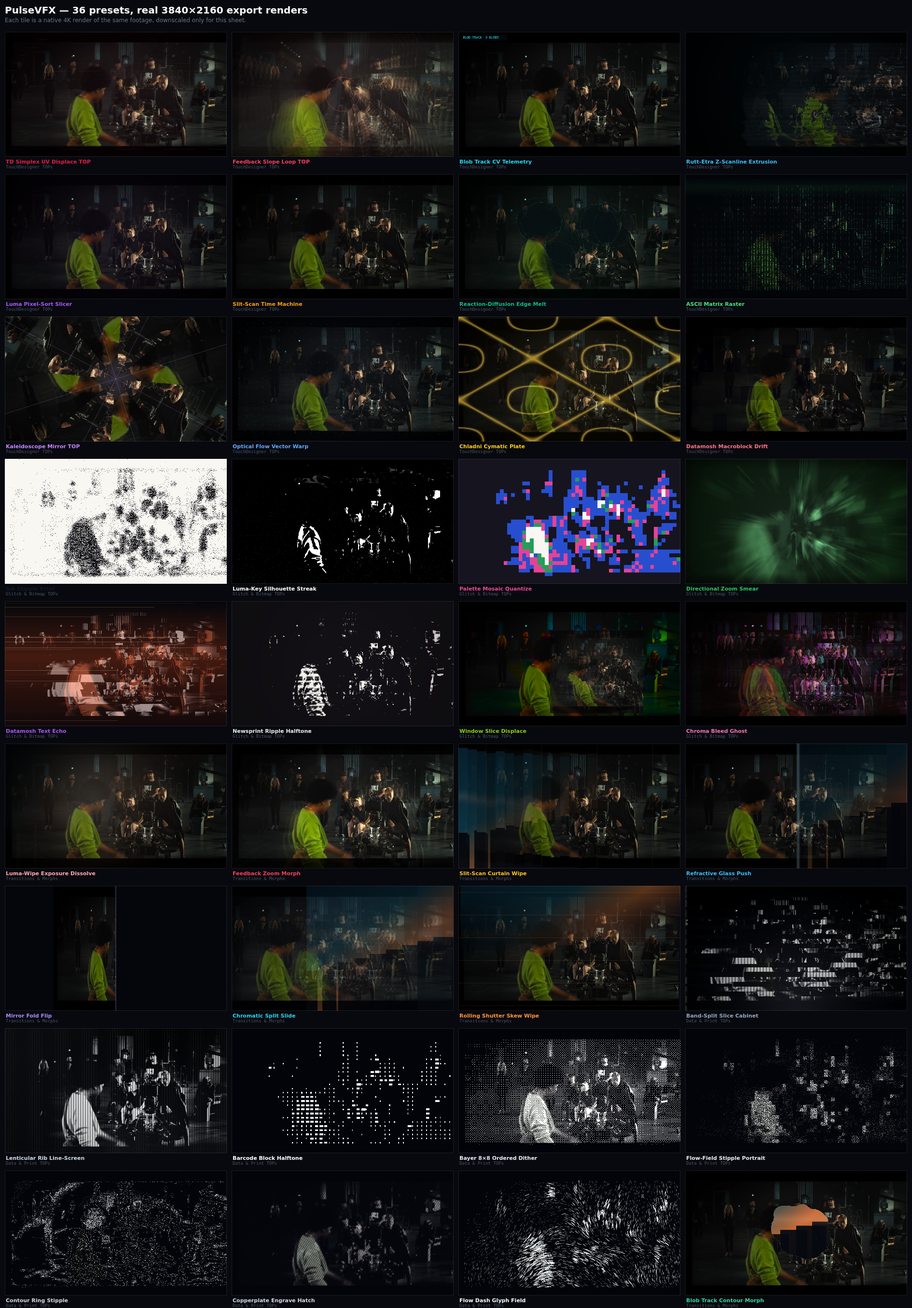
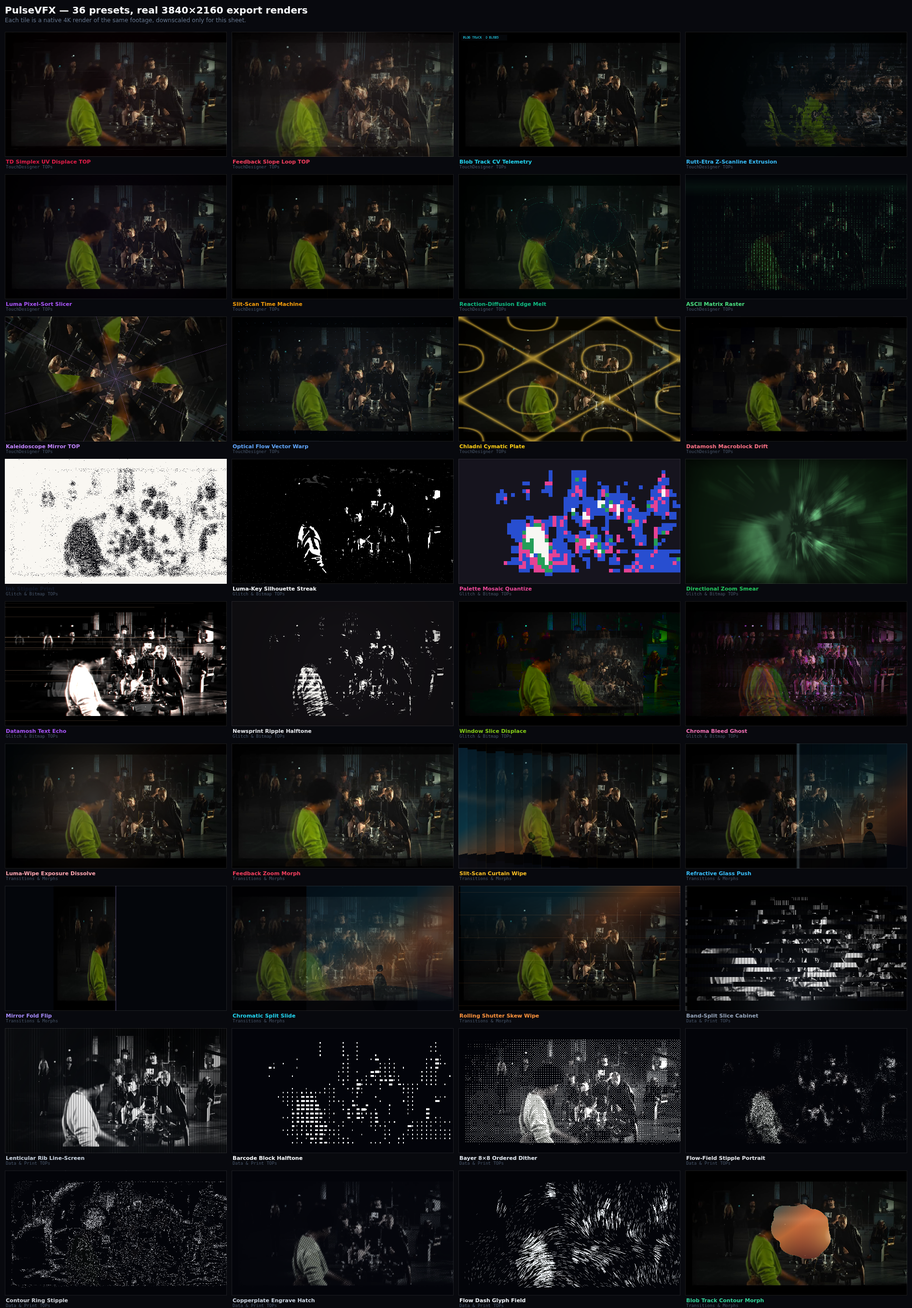
4K print-family polish: full ASCII raster, contour-gated stipple, dash flow field
- ASCII puts a glyph in every cell (was skipping everything below the ramp floor)
- stipple samples tone bilinearly from a 96x54 grid and gates the empty background
- dash field drops the background and lengthens strokes so the subject reads
- datamosh echo composites a legible mono plate under the additive tear slabs
- refreshed docs/4k-verification.png from a real 4K plate render

diff --git a/public/touchdesigner.js b/public/touchdesigner.js
@@ -1338,9 +1338,9 @@ const TD_ENGINE = (() => {
           const lum = nl((0.2126 * data[i] + 0.7152 * data[i + 1] + 0.0722 * data[i + 2]) / 255);
           // a gamma lift on the ramp index keeps the mid-tones as denser glyphs,
           // otherwise a low-key plate renders as almost empty space
-          const gi = Math.min(ramp.length - 1, Math.floor(Math.pow(lum, 0.72) * (ramp.length - 0.001)));
-          if (gi === 0) continue;
-          ctx.globalAlpha = Math.min(1, (0.22 + Math.pow(lum, 0.8) * 0.9) * (0.45 + I * 0.55));
+          // full raster: every cell carries a glyph, the dimmest one is a dot
+          const gi = Math.min(ramp.length - 1, Math.floor(Math.pow(lum, 0.55) * (ramp.length - 0.001)));
+          ctx.globalAlpha = Math.min(1, (0.10 + Math.pow(lum, 0.85) * 1.05) * (0.45 + I * 0.55));
           ctx.drawImage(ATLAS, gi * glyphCell, 0, glyphCell, AY,
             gx * cellW, gy * cellH, cellW, cellH);
         }
@@ -1753,7 +1753,7 @@ const TD_ENGINE = (() => {
       buf.fill(0);
 
       // pre-pass: luma + contour tangent on a coarse grid
-      const GW = 64, GH = Math.max(16, Math.round((64 * h) / w));
+      const GW = 96, GH = Math.max(24, Math.round((96 * h) / w));
       autoLevels(data, 0.04, 0.98, 0.18);
       const lumGrid = new Float32Array(GW * GH);
       const tanGrid = new Float32Array(GW * GH);
@@ -1790,15 +1790,22 @@ const TD_ENGINE = (() => {
           let px = cx * pitch + jx * pitch;
           let py = cy * pitch + jy * pitch;
           const u = px / SW, v = py / SH;
-          const gx = clamp((u * GW) | 0, 0, GW - 1);
-          const gy = clamp((v * GH) | 0, 0, GH - 1);
+          // bilinear tone lookup: nearest-neighbour on the coarse grid put
+          // visible stair-steps on every silhouette edge at 4K
+          const fx = clamp(u * GW - 0.5, 0, GW - 1.001);
+          const fy = clamp(v * GH - 0.5, 0, GH - 1.001);
+          const gx = fx | 0, gy = fy | 0;
+          const tx = fx - gx, ty = fy - gy;
+          const g00 = gy * GW + gx, g10 = g00 + 1;
+          const g01 = g00 + GW, g11 = g01 + 1;
+          const lum = (lumGrid[g00] * (1 - tx) + lumGrid[g10] * tx) * (1 - ty)
+                    + (lumGrid[g01] * (1 - tx) + lumGrid[g11] * tx) * ty;
           const gidx = gy * GW + gx;
-          const lum = lumGrid[gidx];
           // tone → ink: shadows stay empty (a stipple print has real blacks),
           // the probability climbs with tone so midtones read as texture and
           // highlights as solid grains rather than an even wash everywhere
-          const tone = clamp((lum - 0.10) / 0.90, 0, 1);
-          if (tone < 0.02) continue;
+          const tone = clamp((lum - 0.22) / 0.78, 0, 1);
+          if (tone < 0.03) continue;
           const rnd = hash2(seed, 4.3);
           if (rnd > clamp(0.10 + Math.pow(tone, 0.95) * 1.12, 0, 1) * density) continue;
           const tang = tanGrid[gidx];
@@ -2057,12 +2064,12 @@ const TD_ENGINE = (() => {
         const d = cloud[i];
         const n1 = (fbm(d.u * 2.6 + t * 0.09, d.v * 2.6 - t * 0.06, 2) - 0.5) * 2;
         const lum = Math.pow(nl(lumaAt(data, pw, ph, d.u, d.v)), 0.6);
-        const tone = clamp((lum - 0.12) / 0.88, 0, 1);
-        if (tone < 0.03 || hash2(d.u * 91.3, d.v * 47.7) > 0.2 + tone * 0.85) continue;
+        const tone = clamp((lum - 0.20) / 0.80, 0, 1);
+        if (tone < 0.06 || hash2(d.u * 91.3, d.v * 47.7) > 0.10 + tone * 0.95) continue;
         const ang = n1 * Math.PI * (0.6 + 0.5 * Math.min(1, I));
-        const len = (1.6 + tone * 8.5) * scale * (0.6 + 0.6 * Math.min(1, I));
+        const len = (2.4 + tone * 11) * scale * (0.6 + 0.6 * Math.min(1, I));
         const px = d.u * w, py = d.v * h;
-        ctx.globalAlpha = Math.min(1, (0.12 + tone * 0.95) * (0.45 + I * 0.55));
+        ctx.globalAlpha = Math.min(1, (0.18 + tone * 0.90) * (0.50 + I * 0.50));
         ctx.beginPath();
         ctx.moveTo(px - Math.cos(ang) * len * 0.5, py - Math.sin(ang) * len * 0.5);
         ctx.lineTo(px + Math.cos(ang) * len * 0.5, py + Math.sin(ang) * len * 0.5);
@@ -2390,7 +2397,7 @@ const TD_ENGINE = (() => {
       const bh = h / blocks;
 
       // 1. high-contrast mono plate: detail survives the smear as ink
-      const plate = monoPrintPlate(w, h, 1.8 + I * 0.4, 0.92);
+      const plate = monoPrintPlate(w, h, 1.24 + I * 0.28, 0.98);
 
       // 2. black ground + rust wash only in the mid band (not a full veil)
       ctx.save();
@@ -2399,10 +2406,15 @@ const TD_ENGINE = (() => {
       ctx.fillRect(0, 0, w, h);
       const rust = ctx.createLinearGradient(0, 0, 0, h);
       rust.addColorStop(0, 'rgba(120,44,22,0)');
-      rust.addColorStop(0.45, 'rgba(120,44,22,0.55)');
-      rust.addColorStop(1, 'rgba(60,18,10,0.25)');
+      rust.addColorStop(0.44, 'rgba(126,48,24,0)');
+      rust.addColorStop(0.50, 'rgba(126,48,24,0.30)');
+      rust.addColorStop(0.56, 'rgba(126,48,24,0)');
+      rust.addColorStop(1, 'rgba(60,18,10,0)');
       ctx.fillStyle = rust;
       ctx.fillRect(0, 0, w, h);
+      // the plate itself must be readable — the smear streaks are additive on top
+      ctx.globalAlpha = Math.min(1, 0.72 + I * 0.25);
+      ctx.drawImage(plate, 0, 0, w, h);
       ctx.restore();
 
       // 3. block smear: each slab is displaced and re-entered additively, so
@@ -2415,7 +2427,7 @@ const TD_ENGINE = (() => {
         const dx = drift * w * 0.22 * amt;
         const tearRoll = hash2(seed, Math.floor(t * 6) * 0.37);
         const tear = tearRoll > 0.84 ? (hash2(seed, 4.1) - 0.5) * w * 0.34 * amt : 0;
-        ctx.globalAlpha = Math.min(1, 0.34 + Math.abs(drift) * 0.34);
+        ctx.globalAlpha = Math.min(1, 0.20 + Math.abs(drift) * 0.26);
         ctx.drawImage(plate, 0, i * bh, w, bh, dx + tear, i * bh, w, bh);
       }
       ctx.restore();

diff --git a/README.md b/README.md
@@ -126,8 +126,17 @@ Token/technique changes made during the pass: `Contour Ring Stipple` was rebuilt
 dots on the **iso-luma contours** of the plate (it previously drew literal concentric
 circles), `Copperplate Engrave Hatch` became a real burin plate (one line field masked into
 three tone bands, cross-hatched in shadow, stroke weight carrying tone), `ASCII Matrix
-Raster` became a true full-frame glyph raster with a gamma-lifted ramp, and
+Raster` became a true full-frame glyph raster that puts a character in **every** cell, and
 `Datamosh Text Echo` was rebuilt around a mono plate + rust mid-band + red/cyan ghosts.
+
+The second pass (after the panel was wired to Resolve) fixed what the first sheet still
+showed at 1:1: `Flow-Field Stipple Portrait` gated its tone with a bilinear lookup from a
+96×54 grid (nearest-neighbour had put stair-steps on every silhouette edge), `Flow Dash
+Glyph Field` now drops the empty background instead of speckling the whole frame, the ASCII
+raster reads as a monitor instead of a few dots, the lenticular rib screen became a cosine
+lens ramp with a thin specular crest, the newsprint ripple slices at `h/11` so 4K no longer
+stair-steps at 31px, and every print plate trades contrast for legibility
+(1.10–1.42 at gamma 0.92–0.98) instead of crushing to black.
 
 ![All 72 presets rendered at 3840x2160](docs/4k-verification.png)
 
